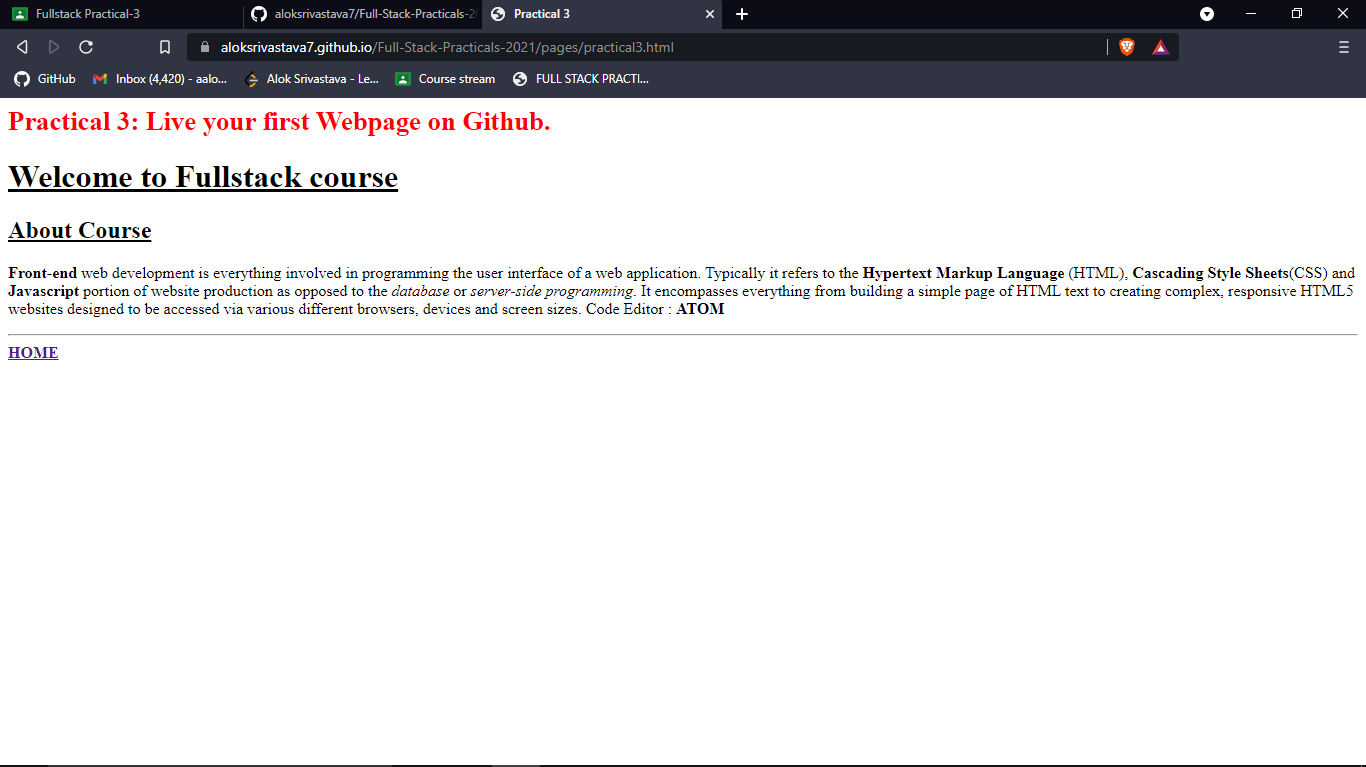
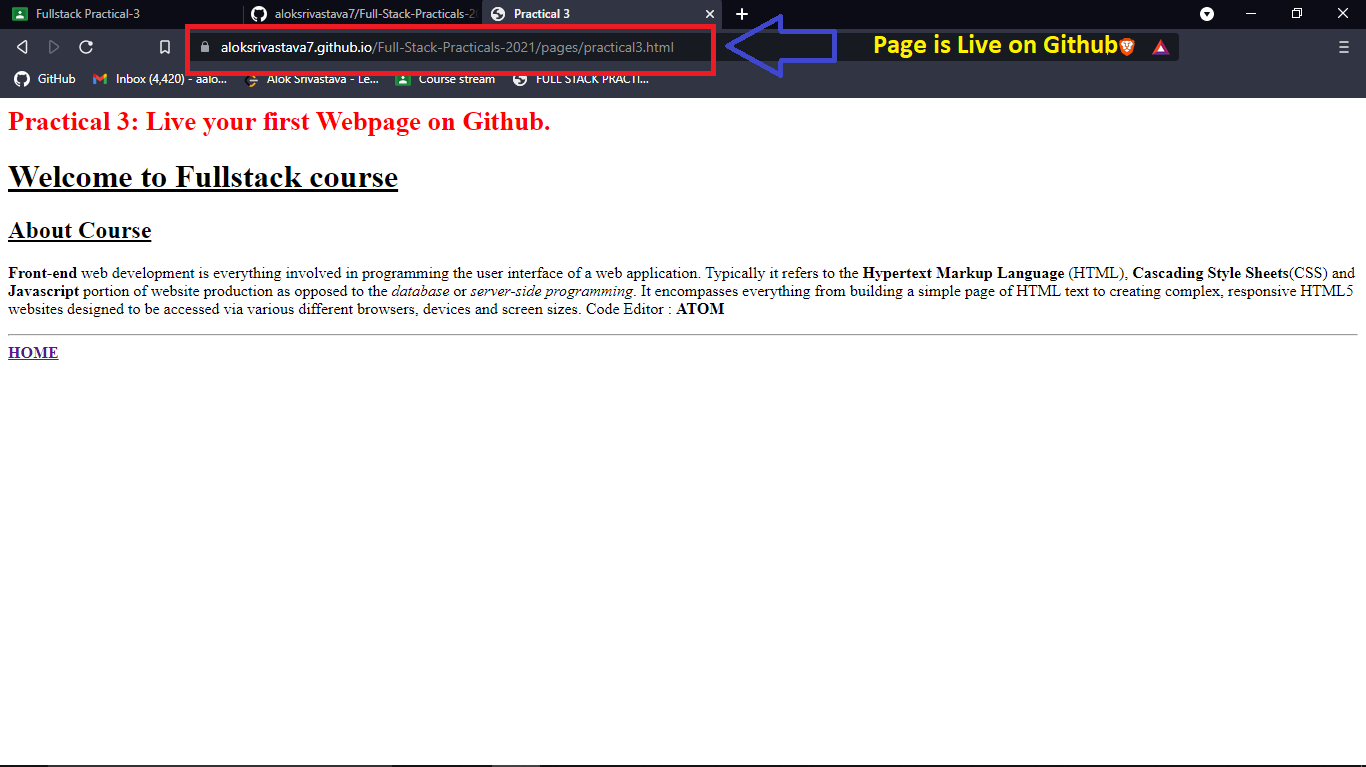
Addding screenshot on page

Changed region(s): [[0.123, 0.03, 0.6149, 0.1199], [0.6457, 0.03, 0.8302, 0.09]]

diff --git a/pages/practical3.html b/pages/practical3.html
@@ -18,7 +18,7 @@
     browsers, devices and screen sizes.
     Code Editor : <b>ATOM</b></p><br>
     <h2><u>Output</u></h2>
-    <img src="" alt="">
+    <img src="./assets/practical3.jpg" alt="">
     <hr>
     <a href="../index.html"><b>HOME</b></a>
   </body>
